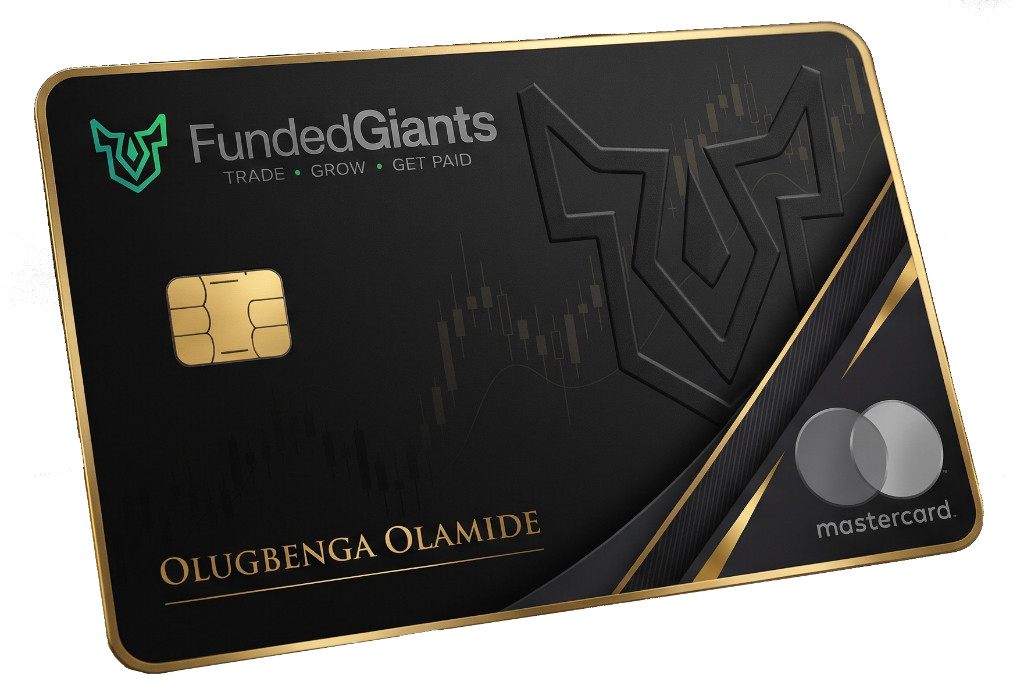
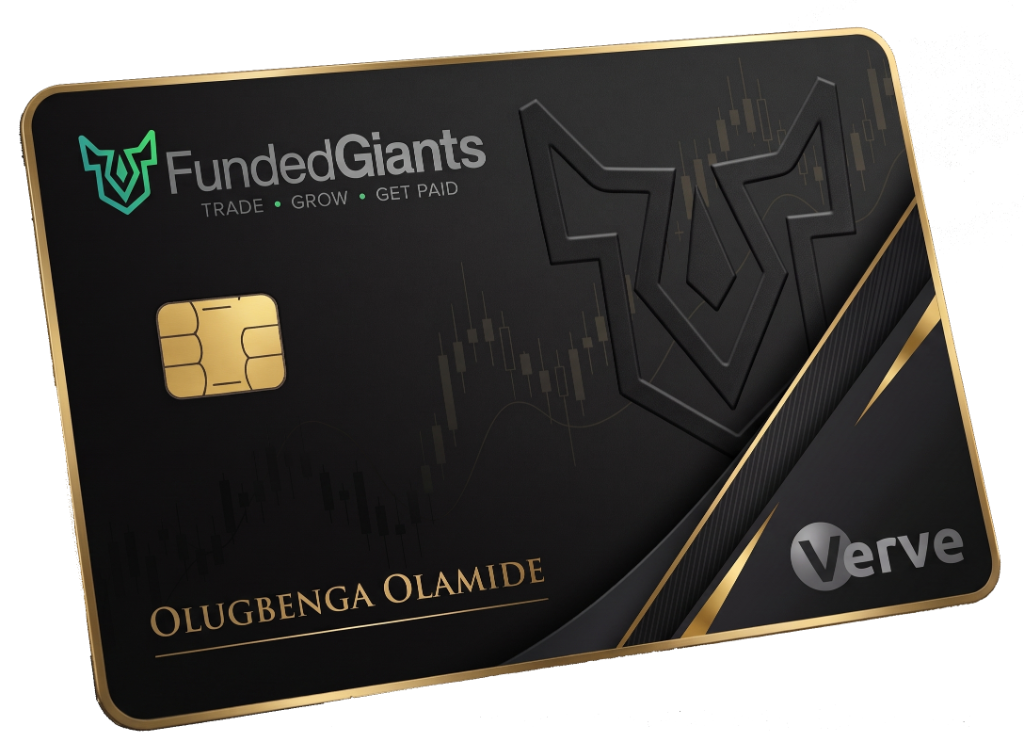
feat(cards,admin): switch card variant strictly to Verve, remove card promotional text, reword button to Request Card, and dedicate KYC strictly to NinjaKYC

diff --git a/apps/admin-web/src/app/settings/page.tsx b/apps/admin-web/src/app/settings/page.tsx
@@ -58,13 +58,13 @@ export default function SettingsAndDevicePage() {
     wooCommerceConsumerSecret: '',
     wooCommerceWebhookSecret: '',
 
-    // KYC
-    kycProvider: 'sumsub',
-    kycBaseUrl: '',
-    kycAppToken: '',
-    kycSecretKey: '',
-    kycLevelName: '',
-    kycWebhookSecret: '',
+    // KYC (Strictly NinjaKYC)
+    kycProvider: 'ninjakyc',
+    ninjaKycBaseUrl: '',
+    ninjaKycApiKey: '',
+    ninjaKycClientId: '',
+    ninjaKycSecretKey: '',
+    ninjaKycWebhookSecret: '',
 
     // SMTP / Email
     emailProvider: 'smtp',
@@ -120,9 +120,9 @@ export default function SettingsAndDevicePage() {
 
           wooCommerceApiUrl: s.wooCommerce?.apiUrl || prev.wooCommerceApiUrl,
 
-          kycProvider: s.kyc?.provider || prev.kycProvider,
-          kycBaseUrl: s.kyc?.baseUrl || prev.kycBaseUrl,
-          kycLevelName: s.kyc?.levelName || prev.kycLevelName,
+          kycProvider: 'ninjakyc',
+          ninjaKycBaseUrl: s.kyc?.baseUrl || prev.ninjaKycBaseUrl,
+          ninjaKycClientId: s.kyc?.clientId || prev.ninjaKycClientId,
 
           emailProvider: s.smtp?.provider || prev.emailProvider,
           smtpHost: s.smtp?.host || prev.smtpHost,
@@ -287,7 +287,7 @@ export default function SettingsAndDevicePage() {
             { id: 'steratrader', label: 'SteraTrader Broker', icon: Zap },
             { id: 'lenco', label: 'Lenco Banking', icon: Building2 },
             { id: 'woocommerce', label: 'WooCommerce', icon: ShoppingCart },
-            { id: 'kyc', label: 'KYC Verification', icon: UserCheck },
+            { id: 'kyc', label: 'NinjaKYC Identity', icon: UserCheck },
             { id: 'smtp', label: 'Email & SMTP', icon: Mail },
             { id: 'alerts', label: 'Risk Alerts', icon: Bell },
             { id: 'crypto', label: 'Crypto & Alternative', icon: Coins },
@@ -478,7 +478,7 @@ export default function SettingsAndDevicePage() {
             </div>
           )}
 
-          {/* 4. KYC Provider */}
+          {/* 4. NinjaKYC Dedicated Provider */}
           {(activeTab === 'all' || activeTab === 'kyc') && (
             <div className="rounded-2xl bg-[#0f1712] border border-[#1b3322] p-6 space-y-5">
               <div className="flex items-center justify-between border-b border-[#1b3322] pb-3">
@@ -487,41 +487,41 @@ export default function SettingsAndDevicePage() {
                     <UserCheck className="w-4 h-4" />
                   </div>
                   <div>
-                    <h3 className="text-sm font-bold text-white">Identity Verification & KYC Gate</h3>
-                    <p className="text-[11px] text-slate-400">Sumsub / NinjaKYC automated BVN, NIN, Government ID, and liveness verification</p>
+                    <h3 className="text-sm font-bold text-white">NinjaKYC Identity Verification Engine</h3>
+                    <p className="text-[11px] text-slate-400">Strictly dedicated NinjaKYC gateway for automated BVN, NIN, Voter&apos;s Card, International Passport, and Liveness validation</p>
                   </div>
                 </div>
-                <button
-                  type="button"
-                  onClick={() => handleTestConnection('kyc')}
-                  disabled={testingProvider === 'kyc'}
-                  className="px-2.5 py-1 rounded-lg bg-[#070a08] border border-[#1b3322] text-[11px] font-semibold text-slate-300 hover:text-white hover:border-emerald-500/40 flex items-center gap-1 transition"
-                >
-                  {testingProvider === 'kyc' ? <RefreshCw className="w-3 h-3 animate-spin" /> : <Zap className="w-3 h-3 text-emerald-400" />}
-                  <span>Test KYC Gateway</span>
-                </button>
+                <div className="flex items-center gap-2">
+                  <span className="text-[10px] font-mono px-2 py-0.5 rounded-full bg-emerald-500/10 border border-emerald-500/30 text-emerald-400">
+                    {statusData?.credentialsSummary?.kyc?.hasApiKey ? 'NINJAKYC ACTIVE' : 'PENDING API KEY'}
+                  </span>
+                  <button
+                    type="button"
+                    onClick={() => handleTestConnection('kyc')}
+                    disabled={testingProvider === 'kyc'}
+                    className="px-2.5 py-1 rounded-lg bg-[#070a08] border border-[#1b3322] text-[11px] font-semibold text-slate-300 hover:text-white hover:border-emerald-500/40 flex items-center gap-1 transition"
+                  >
+                    {testingProvider === 'kyc' ? <RefreshCw className="w-3 h-3 animate-spin" /> : <Zap className="w-3 h-3 text-emerald-400" />}
+                    <span>Test NinjaKYC API</span>
+                  </button>
+                </div>
               </div>
 
               <div className="grid grid-cols-1 md:grid-cols-3 gap-4">
                 <div className="space-y-1">
                   <label className="block text-[11px] font-semibold uppercase tracking-wider text-slate-400">
-                    KYC Engine
+                    Dedicated KYC Provider
                   </label>
-                  <select
-                    value={formData.kycProvider}
-                    onChange={(e) => setFormData({ ...formData, kycProvider: e.target.value })}
-                    className="w-full rounded-lg bg-[#070a08] border border-[#1b3322] px-3 py-2 text-xs text-white focus:outline-none focus:border-emerald-500 font-mono"
-                  >
-                    <option value="sumsub">Sumsub Global ID</option>
-                    <option value="ninjakyc">NinjaKYC / Verified.ng</option>
-                    <option value="robase">Robase Nigerian Identity Engine</option>
-                  </select>
+                  <div className="w-full rounded-lg bg-[#070a08] border border-emerald-500/30 px-3 py-2 text-xs text-[#00f59b] font-mono font-bold flex items-center justify-between">
+                    <span>NinjaKYC (Nigeria Direct)</span>
+                    <span className="text-[9px] px-1.5 py-0.2 rounded bg-emerald-500/15 text-emerald-400">Strict</span>
+                  </div>
                 </div>
-                {renderInputField('Base URL', 'kycBaseUrl', 'https://api.sumsub.com')}
-                {renderInputField('App Token / API Key', 'kycAppToken', 'App Token', true)}
-                {renderInputField('Secret Key', 'kycSecretKey', 'Secret Key', true)}
-                {renderInputField('Verification Level Name', 'kycLevelName', 'basic-kyc-level')}
-                {renderInputField('Webhook HMAC Secret', 'kycWebhookSecret', 'HMAC verification secret', true)}
+                {renderInputField('NinjaKYC Base URL', 'ninjaKycBaseUrl', 'https://api.ninjakyc.com')}
+                {renderInputField('NinjaKYC API Key', 'ninjaKycApiKey', 'Leave blank to retain current key', true, undefined, statusData?.credentialsSummary?.kyc?.apiKeyMasked)}
+                {renderInputField('NinjaKYC Client ID', 'ninjaKycClientId', 'Client / App ID')}
+                {renderInputField('NinjaKYC Secret Key', 'ninjaKycSecretKey', 'Leave blank to retain secret', true)}
+                {renderInputField('NinjaKYC Webhook Secret', 'ninjaKycWebhookSecret', 'Webhook HMAC verification secret', true)}
               </div>
             </div>
           )}

diff --git a/apps/trader-web/src/app/dashboard/wallet/cards/page.tsx b/apps/trader-web/src/app/dashboard/wallet/cards/page.tsx
@@ -166,11 +166,11 @@ export default function GiantsCardDashboardPage() {
       setMyCardData({
         hasCard: true,
         cardOrder: result.cardOrder,
-        previewUrl: '/cards/card-preview-perspective.png',
+        previewUrl: '/cards/card-verve-perspective.png',
         stampedUrl: result.downloadUrl,
       });
 
-      setActionSuccess('Giants MasterCard requested and stamped successfully! Ready for download and physical dispatch.');
+      setActionSuccess('Giants Verve Card requested and stamped successfully! Ready for download and physical dispatch.');
       setTimeout(() => {
         setIsRequestModalOpen(false);
         setActionSuccess(null);
@@ -206,13 +206,13 @@ export default function GiantsCardDashboardPage() {
               Giants Vault
             </Link>
             <span>/</span>
-            <span className="text-[#00f59b]">Giants MasterCard Dashboard</span>
+            <span className="text-[#00f59b]">Giants Verve Card Dashboard</span>
           </div>
           <h1 className="text-2xl sm:text-3xl font-heading font-extrabold text-white tracking-tight">
-            Giants MasterCard Dashboard
+            Giants Verve Card Dashboard
           </h1>
           <p className="text-xs text-fgText-secondary mt-1">
-            Physical laser-etched debit card debited directly from your Giants Vault balance for ATMs, POS, and online checkouts.
+            Physical laser-etched Verve debit card debited directly from your Giants Vault balance for ATMs, POS, and online checkouts.
           </p>
         </div>
 
@@ -248,7 +248,7 @@ export default function GiantsCardDashboardPage() {
             <div className="flex items-center justify-between">
               <span className="text-xs font-heading font-extrabold text-white tracking-wider flex items-center gap-1.5">
                 <CreditCard className="w-4 h-4 text-emerald-400" />
-                <span>FUNDEDGIANTS MASTERCARD</span>
+                <span>FUNDEDGIANTS VERVE CARD</span>
               </span>
               <span
                 className={`text-[10px] px-2.5 py-0.5 rounded-full font-mono font-bold uppercase tracking-wider ${
@@ -261,13 +261,13 @@ export default function GiantsCardDashboardPage() {
               </span>
             </div>
 
-            {/* Official 3D Perspective Card Graphic */}
+            {/* Official 3D Perspective Verve Card Graphic */}
             <div className="relative rounded-2xl overflow-hidden border border-emerald-500/40 shadow-2xl group bg-black/60 p-3 flex items-center justify-center">
               <Image
-                src={myCardData?.hasCard && myCardData?.stampedUrl ? myCardData.stampedUrl : '/cards/card-preview-perspective.png'}
-                alt="FundedGiants Spend Card"
+                src={myCardData?.hasCard && myCardData?.stampedUrl ? myCardData.stampedUrl : '/cards/card-verve-perspective.png'}
+                alt="FundedGiants Verve Spend Card"
                 width={1024}
-                height={696}
+                height={748}
                 className={`w-full h-auto object-contain rounded-xl transition duration-500 ${
                   isCardFrozen ? 'grayscale opacity-60' : 'group-hover:scale-[1.02]'
                 }`}
@@ -424,7 +424,7 @@ export default function GiantsCardDashboardPage() {
                   3
                 </div>
                 <div className="text-[10px] font-bold text-emerald-400">NFC Encoded</div>
-                <div className="text-[8px] text-slate-500">Mastercard Chip</div>
+                <div className="text-[8px] text-slate-500">Verve Smart Chip</div>
               </div>
               <div className="space-y-1.5 opacity-40">
                 <div className="w-7 h-7 mx-auto rounded-full bg-black/40 text-slate-500 border border-white/10 flex items-center justify-center font-bold text-xs">
@@ -444,7 +444,7 @@ export default function GiantsCardDashboardPage() {
                   Card Transactions Log
                 </h3>
                 <p className="text-[10px] text-fgText-secondary">
-                  Direct debit activity from your FundedGiants MasterCard
+                  Direct debit activity from your FundedGiants Verve Card
                 </p>
               </div>
               <span className="text-[10px] font-mono text-emerald-400">
@@ -486,7 +486,7 @@ export default function GiantsCardDashboardPage() {
       </div>
 
       {/* ======================================================== */}
-      {/* MODAL 1: REQUEST GIANTS MASTERCARD                       */}
+      {/* MODAL 1: REQUEST GIANTS VERVE CARD                       */}
       {/* ======================================================== */}
       {isRequestModalOpen && (
         <div className="fixed inset-0 z-50 flex items-center justify-center p-4 bg-black/80 backdrop-blur-sm animate-in fade-in duration-200">
@@ -501,7 +501,7 @@ export default function GiantsCardDashboardPage() {
             <div className="space-y-1">
               <h3 className="text-lg font-heading font-bold text-white flex items-center gap-2">
                 <CreditCard className="w-5 h-5 text-emerald-400" />
-                <span>Request Giants MasterCard</span>
+                <span>Request Giants Verve Card</span>
               </h3>
               <p className="text-xs text-fgText-secondary">
                 Personalized metallic gold foil stamping on your physical debit card.

diff --git a/apps/api/src/modules/admin/admin-config.controller.ts b/apps/api/src/modules/admin/admin-config.controller.ts
@@ -41,13 +41,17 @@ export class UpdateFullConfigDto {
   wooCommerceConsumerSecret?: string;
   wooCommerceWebhookSecret?: string;
 
-  // KYC Provider (Sumsub / NinjaKYC)
-  kycProvider?: string; // sumsub | ninjakyc | robase
+  // KYC Provider (Strictly NinjaKYC)
+  kycProvider?: string;
+  ninjaKycBaseUrl?: string;
+  ninjaKycApiKey?: string;
+  ninjaKycClientId?: string;
+  ninjaKycSecretKey?: string;
+  ninjaKycWebhookSecret?: string;
   kycBaseUrl?: string;
   kycAppToken?: string;
   kycApiKey?: string;
   kycSecretKey?: string;
-  kycLevelName?: string;
   kycWebhookSecret?: string;
 
   // Transactional Email / SMTP
@@ -133,12 +137,13 @@ export class AdminConfigController {
           hasWebhookSecret: !!parseEnvVal('WOOCOMMERCE_WEBHOOK_SECRET'),
         },
         kyc: {
-          provider: parseEnvVal('KYC_PROVIDER') || 'sumsub',
-          baseUrl: parseEnvVal('KYC_BASE_URL') || 'https://api.sumsub.com',
-          hasAppToken: !!parseEnvVal('KYC_APP_TOKEN') || !!parseEnvVal('NINJA_KYC_API_KEY'),
-          hasSecretKey: !!parseEnvVal('KYC_SECRET_KEY'),
-          levelName: parseEnvVal('KYC_LEVEL_NAME') || 'basic-kyc-level',
-          hasWebhookSecret: !!parseEnvVal('KYC_WEBHOOK_SECRET') || !!parseEnvVal('NINJA_KYC_WEBHOOK_SECRET'),
+          provider: 'ninjakyc',
+          baseUrl: parseEnvVal('NINJA_KYC_BASE_URL') || parseEnvVal('KYC_BASE_URL') || 'https://api.ninjakyc.com',
+          hasApiKey: !!parseEnvVal('NINJA_KYC_API_KEY') || !!parseEnvVal('KYC_APP_TOKEN'),
+          apiKeyMasked: this.maskValue(parseEnvVal('NINJA_KYC_API_KEY') || parseEnvVal('KYC_APP_TOKEN')),
+          clientId: parseEnvVal('NINJA_KYC_CLIENT_ID') || '',
+          hasSecretKey: !!parseEnvVal('NINJA_KYC_SECRET_KEY') || !!parseEnvVal('KYC_SECRET_KEY'),
+          hasWebhookSecret: !!parseEnvVal('NINJA_KYC_WEBHOOK_SECRET') || !!parseEnvVal('KYC_WEBHOOK_SECRET'),
         },
         smtp: {
           provider: parseEnvVal('EMAIL_PROVIDER') || 'smtp',
@@ -213,13 +218,13 @@ export class AdminConfigController {
       updateKey('WOOCOMMERCE_CONSUMER_SECRET', dto.wooCommerceConsumerSecret);
       updateKey('WOOCOMMERCE_WEBHOOK_SECRET', dto.wooCommerceWebhookSecret);
 
-      // KYC
-      updateKey('KYC_PROVIDER', dto.kycProvider);
-      updateKey('KYC_BASE_URL', dto.kycBaseUrl);
-      updateKey('KYC_APP_TOKEN', dto.kycAppToken || dto.kycApiKey);
-      updateKey('KYC_SECRET_KEY', dto.kycSecretKey);
-      updateKey('KYC_LEVEL_NAME', dto.kycLevelName);
-      updateKey('KYC_WEBHOOK_SECRET', dto.kycWebhookSecret);
+      // KYC (Strictly NinjaKYC)
+      updateKey('KYC_PROVIDER', 'ninjakyc');
+      updateKey('NINJA_KYC_BASE_URL', dto.ninjaKycBaseUrl || dto.kycBaseUrl);
+      updateKey('NINJA_KYC_API_KEY', dto.ninjaKycApiKey || dto.kycAppToken || dto.kycApiKey);
+      updateKey('NINJA_KYC_CLIENT_ID', dto.ninjaKycClientId);
+      updateKey('NINJA_KYC_SECRET_KEY', dto.ninjaKycSecretKey || dto.kycSecretKey);
+      updateKey('NINJA_KYC_WEBHOOK_SECRET', dto.ninjaKycWebhookSecret || dto.kycWebhookSecret);
 
       // SMTP
       updateKey('EMAIL_PROVIDER', dto.emailProvider);
@@ -281,7 +286,7 @@ export class AdminConfigController {
         details = 'SMTP relay host responded to HELO handshake.';
         break;
       case 'kyc':
-        details = 'KYC webhook listener and verification API ready.';
+        details = 'NinjaKYC API connected. Automated BVN, NIN, and Liveness validation endpoints ready.';
         break;
       default:
         details = 'Provider endpoint ping successful.';

diff --git a/apps/trader-web/src/app/dashboard/wallet/page.tsx b/apps/trader-web/src/app/dashboard/wallet/page.tsx
@@ -688,33 +688,30 @@ export default function GiantsVaultPage() {
                 <span>GIANTS SPEND CARD</span>
               </span>
               <span className="text-[9px] px-2 py-0.5 rounded-full bg-emerald-500/15 border border-emerald-500/30 text-emerald-400 font-mono font-bold uppercase">
-                MASTERCARD DEBIT
+                VERVE DEBIT
               </span>
             </div>
 
-            {/* Spend Card Image: Official Perspective Card Design */}
+            {/* Spend Card Image: Official Perspective Verve Card Design */}
             <div className="relative rounded-xl overflow-hidden border border-emerald-500/30 shadow-2xl group bg-black/60 flex items-center justify-center p-2">
               <Image
-                src={myCardData?.hasCard && myCardData?.stampedUrl ? myCardData.stampedUrl : '/cards/card-preview-perspective.png'}
+                src={myCardData?.hasCard && myCardData?.stampedUrl ? myCardData.stampedUrl : '/cards/card-verve-perspective.png'}
                 alt="FundedGiants Spend Card"
                 width={1024}
-                height={696}
+                height={748}
                 className="w-full h-auto object-contain rounded-lg transition duration-300 group-hover:scale-[1.02]"
                 priority
               />
             </div>
 
             {/* Direct Link to Giants Card Dashboard */}
-            <div className="space-y-2.5 pt-1">
-              <p className="text-[11px] text-fgText-secondary leading-relaxed">
-                Physical laser-etched Mastercard debit card debited directly from your Giants Vault. Instant ATM cash, POS terminals, and online checkout.
-              </p>
+            <div className="pt-1">
               <Link
                 href="/dashboard/wallet/cards"
                 className="w-full py-2.5 px-4 rounded-xl text-xs font-heading font-extrabold bg-[#00e575] hover:bg-[#00c966] text-black shadow-lg shadow-emerald-500/20 active:scale-95 transition flex items-center justify-center gap-1.5"
               >
                 <Sparkles className="w-3.5 h-3.5 stroke-[2.5]" />
-                <span>Request Giants MasterCard</span>
+                <span>Request Card</span>
               </Link>
             </div>
           </div>
@@ -935,7 +932,7 @@ export default function GiantsVaultPage() {
                 <span>Request Custom Giants Spend Card</span>
               </h3>
               <p className="text-xs text-fgText-secondary">
-                Personalized metallic gold foil stamping on your Mastercard debit card.
+                Personalized metallic gold foil stamping on your Verve debit card.
               </p>
             </div>
 

diff --git a/apps/api/src/modules/cards/cards.service.ts b/apps/api/src/modules/cards/cards.service.ts
@@ -9,7 +9,7 @@ export class CardsService {
   private readonly logger = new Logger(CardsService.name);
   private readonly publicDir = path.resolve(__dirname, '../../../../trader-web/public/cards');
   private readonly generatedDir = path.resolve(this.publicDir, 'generated');
-  private readonly blankTemplatePath = path.resolve(this.publicDir, 'card-template-blank.png');
+  private readonly blankTemplatePath = path.resolve(this.publicDir, 'card-verve-blank.png');
 
   constructor() {
     if (!fs.existsSync(this.generatedDir)) {
@@ -18,7 +18,7 @@ export class CardsService {
   }
 
   /**
-   * Stamp user's name onto the blank luxury card template and create CardOrder
+   * Stamp user's name onto the blank luxury Verve card template and create CardOrder
    */
   async requestCard(params: {
     userId: string;
@@ -35,7 +35,7 @@ export class CardsService {
 
     // 1. Generate Stamped Card JPEG using Sharp with Metallic Gold Foil SVG
     const svgOverlay = `
-    <svg width="1024" height="696" xmlns="http://www.w3.org/2000/svg">
+    <svg width="1024" height="682" xmlns="http://www.w3.org/2000/svg">
       <defs>
         <linearGradient id="goldFoilGrad" x1="0%" y1="0%" x2="100%" y2="100%">
           <stop offset="0%" stop-color="#fff5db" />
@@ -47,7 +47,7 @@ export class CardsService {
           <feDropShadow dx="1" dy="1.5" stdDeviation="0.8" flood-color="#000000" flood-opacity="0.95" />
         </filter>
       </defs>
-      <text x="88" y="574" 
+      <text x="90" y="574" 
             font-family="'Cinzel', 'Times New Roman', 'Georgia', serif" 
             font-size="32" 
             font-weight="bold" 
